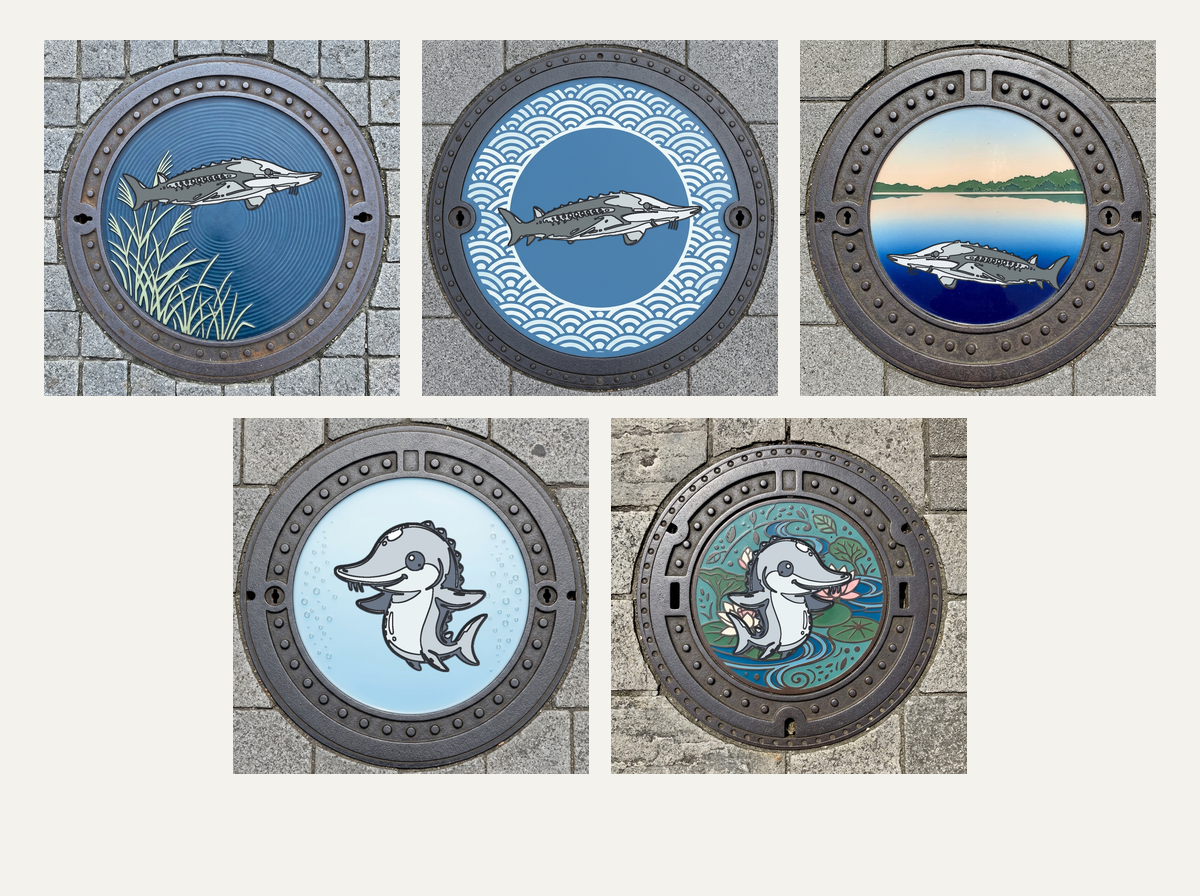
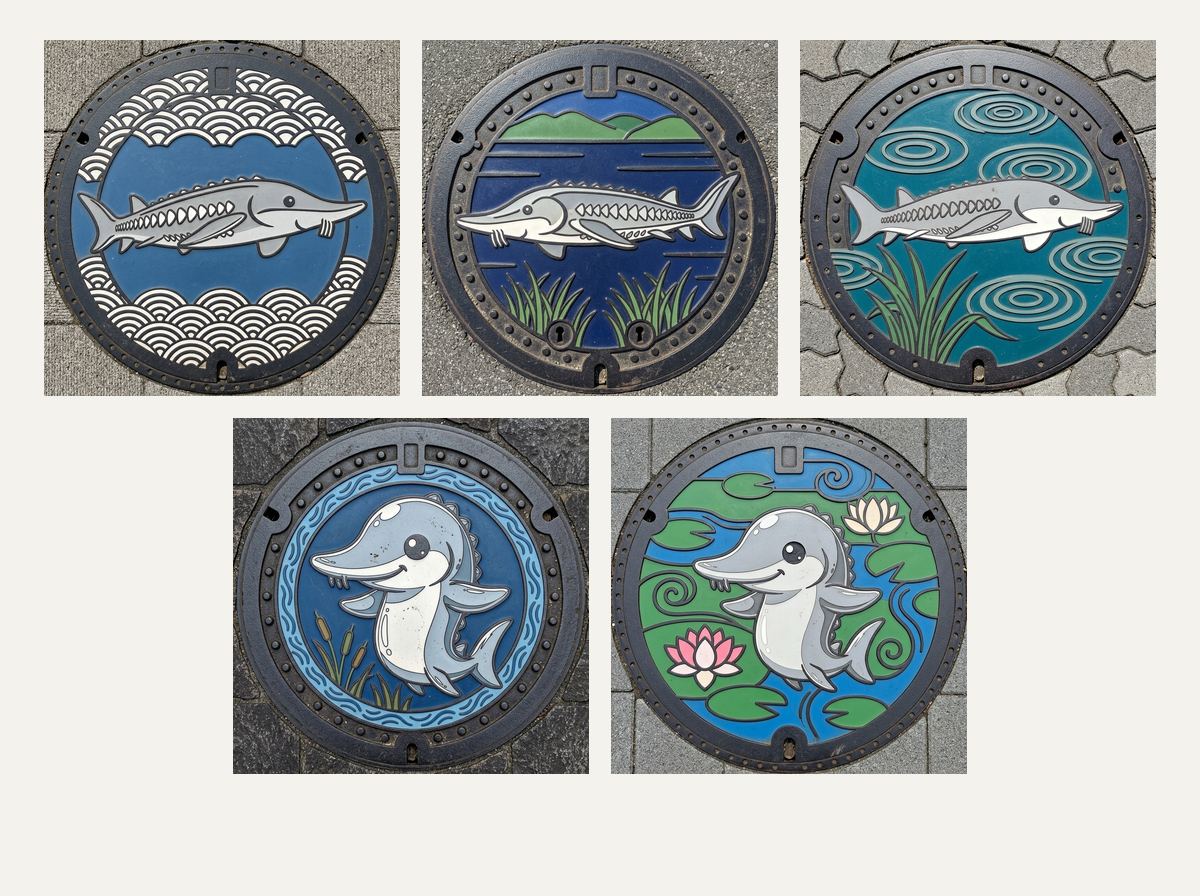
The covers are drawn as castings, not assembled from parts
Laying artwork onto a blank disc never read as metal, so each cover is now
drawn as one design with the character supplied as a reference: raised iron
lines, flat painted cells between them, real worn iron and paving around.
Three official, two Chibi. The old assemble-and-flatten pipeline is gone.

diff --git a/tools/run_ideas_manhole_whole.py b/tools/run_ideas_manhole_whole.py
@@ -1,0 +1,68 @@
+"""Idea 09 - the covers drawn as whole designs.
+
+Instead of laying artwork onto a blank, the cover and the fish are drawn
+together as one casting, with the character supplied as a reference. Takes
+are written to Fujie_Creative/20_new_ideas/whole_*.png for picking.
+"""
+import pathlib, sys
+sys.path.insert(0, str(pathlib.Path(__file__).parent))
+from gen import gen
+
+OUT = "D:/Fuji_Famous/Fujie_Creative/20_new_ideas/"
+CHIBI = "D:/Fuji_Famous/Fujie_Creative/01_character/chibi_neutral.png"
+OFFICIAL = "D:/Fuji_Famous/Documents_for_dev/05_fujie_\u7d75\u67c4\u4f8b.png"
+
+COVER = (
+    "PHOTOREALISTIC photograph of a real Japanese decorative colour manhole cover, the kind towns "
+    "make for their own mascot and collectors travel to photograph. Shot STRAIGHT DOWN from "
+    "directly above so the cover is a PERFECT CIRCLE filling almost the whole frame, with only a "
+    "narrow band of grey paving at the corners. "
+    "It is a genuine casting: dark grey iron with real casting texture, a raised outer rim band, a "
+    "ring of small cast studs and two small keyholes. Inside, the design is made of RAISED IRON "
+    "LINES with flat opaque coloured resin poured into the cells between them - hard edges, few "
+    "colours, bold simple shapes, the look of a woodblock print. No photograph inside the cover, "
+    "no gradients, no airbrushing, no gloss, no glow, no drop shadows, nothing transparent. "
+    "Slightly worn and dusty in the real way, bright even daylight, sharp. No watermark.\n\n"
+    "*** TEXT RULE ***\n"
+    "No text anywhere: no kanji, no kana, no romaji, no numbers, no lettering on the rim.\n\n"
+)
+
+CHIBI_REF = (
+    "The attached image is 'Chibi Fujie', a cute chrome-silver STURGEON: long flat snout, four "
+    "barbels under it, a big dark eye, a smile, a row of bony scutes down the back, fins only - no "
+    "arms, no legs. Cast HIM into the middle of the cover, redrawn as flat cast-and-resin artwork "
+    "in his own silver-grey and white, keeping his shape, his face and his proportions exactly. He "
+    "is a sturgeon: never a dolphin, a shark or a whale.\n\n"
+)
+
+OFFICIAL_REF = (
+    "The attached image is the official Fujie: a realistic silver sturgeon in side profile, long "
+    "flat snout, four barbels, rows of pale bony scutes along the body, small dark eye, large swept "
+    "tail. Cast HIM across the middle of the cover in side profile, redrawn as flat cast-and-resin "
+    "artwork in silver-grey, white and shadow grey, keeping his outline and proportions exactly.\n\n"
+)
+
+TAKES = {
+    "whole_chibi_1": (CHIBI, CHIBI_REF + COVER + "The field around him is deep river blue with a "
+                      "band of stylised wave lines around the edge and a few flat reeds at the bottom."),
+    "whole_chibi_2": (CHIBI, CHIBI_REF + COVER + "The field around him is pale blue with flat round "
+                      "bubbles and a ring of stylised water ripples near the rim."),
+    "whole_official_1": (OFFICIAL, OFFICIAL_REF + COVER + "The field around him is mid blue with a "
+                         "bold seigaiha wave pattern in white confined to a ring around the outer edge."),
+    "whole_official_2": (OFFICIAL, OFFICIAL_REF + COVER + "The field around him is deep indigo water "
+                         "with flat green hills in silhouette across the top and flat reeds at the bottom."),
+    "whole_chibi_3": (CHIBI, CHIBI_REF + COVER + "The field around him is a flat green and blue "
+                      "lotus pond: simple lily pads, two flat lotus flowers and a few curling "
+                      "current lines, all in a handful of solid colours."),
+    "whole_official_3": (OFFICIAL, OFFICIAL_REF + COVER + "The field around him is teal water with "
+                         "flat concentric ripple rings behind him and a clump of flat reeds rising "
+                         "from the bottom left."),
+}
+
+if __name__ == "__main__":
+    only = sys.argv[1:]
+    for name, (ref, prompt) in TAKES.items():
+        if only and not any(o in name for o in only):
+            continue
+        print(name, flush=True)
+        gen(prompt, OUT + name + ".png", refs=[ref], aspect="1:1")

diff --git a/tools/build_manhole_sheet.py b/tools/build_manhole_sheet.py
@@ -1,0 +1,32 @@
+"""Lay the five Hitachiota covers out as one sheet for the hub.
+
+Three carry the official Fujie, two carry Chibi.
+Output: Fujie_Creative/20_new_ideas/cover_set_sheet.png
+"""
+import pathlib
+from PIL import Image
+
+OUT = pathlib.Path("D:/Fuji_Famous/Fujie_Creative/20_new_ideas")
+
+SET = [
+    "whole_official_1",   # city hall - seigaiha waves
+    "whole_official_2",   # the farm gate - the valley at dawn
+    "whole_official_3",   # the station - ripples and reeds
+    "whole_chibi_1",      # a park - river blue, reeds
+    "whole_chibi_3",      # a side street - lotus pond
+]
+
+W, H, BG = 1200, 896, (243, 242, 237)
+T, GAP = 356, 22
+
+if __name__ == "__main__":
+    sheet = Image.new("RGB", (W, H), BG)
+    top_y, bot_y = 40, 40 + T + GAP
+    xs = [(W - (3 * T + 2 * GAP)) // 2 + i * (T + GAP) for i in range(3)]
+    xs += [(W - (2 * T + GAP)) // 2 + i * (T + GAP) for i in range(2)]
+    ys = [top_y] * 3 + [bot_y] * 2
+    for name, x, y in zip(SET, xs, ys):
+        im = Image.open(OUT / (name + ".png")).convert("RGB")
+        sheet.paste(im.resize((T, T), Image.LANCZOS), (x, y))
+    sheet.save(OUT / "cover_set_sheet.png")
+    print("sheet ok")
